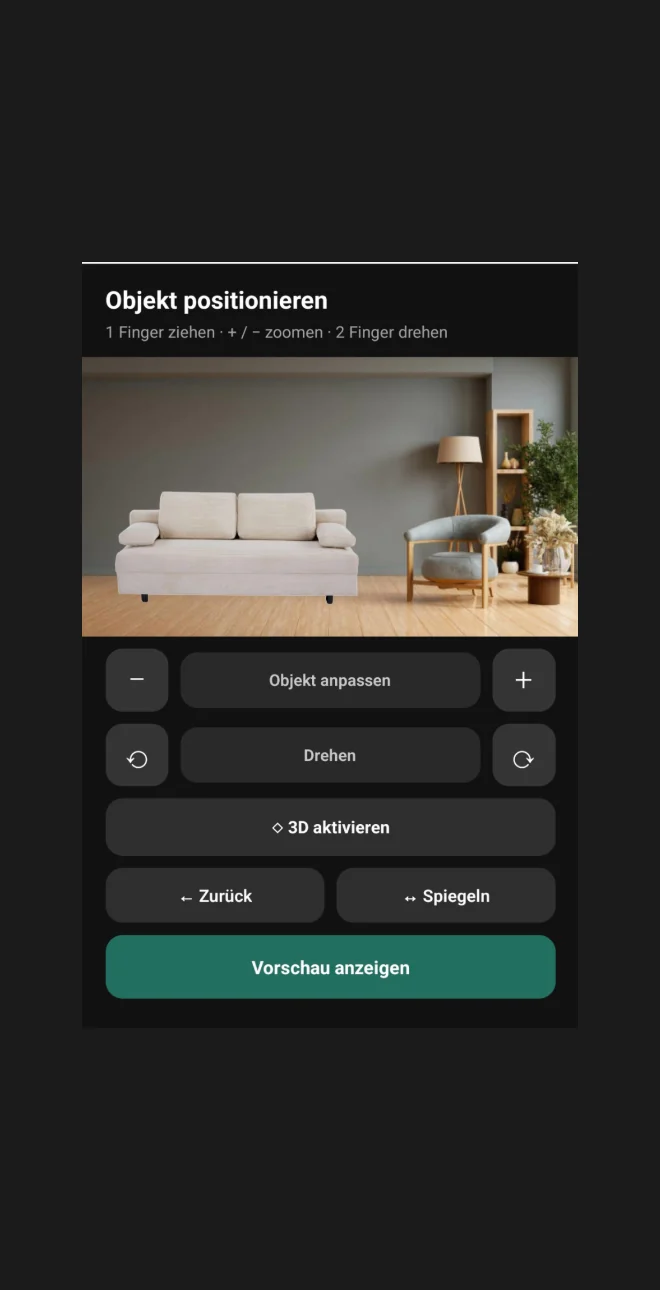
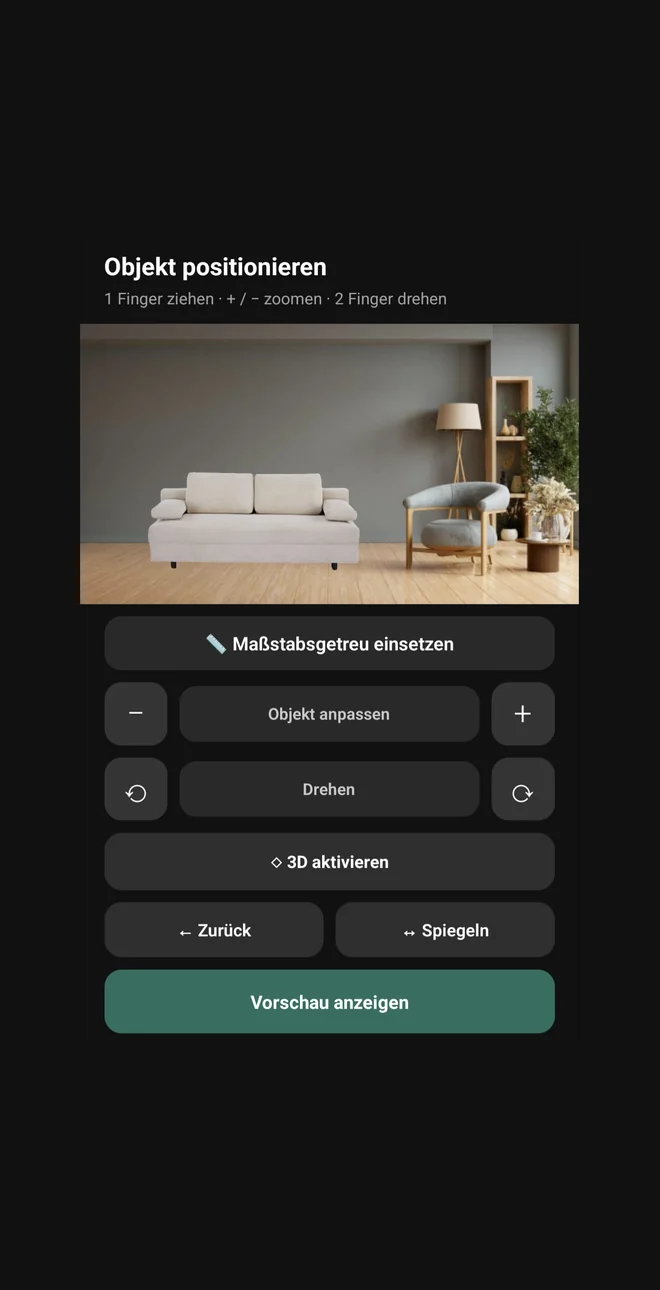
Schritt 04: Massband im Bild und im Text, beide Sprachen

Changed region(s): [[0.1212, 0.186, 0.8788, 0.8062]]

diff --git a/index.html b/index.html
@@ -155,12 +155,14 @@ img{max-width:100%;height:auto;display:block}
   display:inline-block;margin-bottom:18px;background:var(--green-wash);padding:6px 11px;border-radius:999px}
 .tile h3{margin-bottom:9px}
 .tile p{color:var(--muted);font-size:15.5px;margin:0}
-.tile-wide{grid-column:1/3;display:flex;gap:26px;align-items:center;background:var(--green-dark);border-color:var(--green-dark)}
-.tile-wide .tx{flex:1;min-width:0}
-.tile-wide h3{color:var(--creme)}
-.tile-wide p{color:rgba(247,244,239,.75)}
-.tile-wide .n{background:rgba(247,244,239,.15);color:rgba(247,244,239,.85)}
-.tile-wide img{width:168px;height:168px;object-fit:cover;border-radius:16px;flex:none;border:2px solid rgba(247,244,239,.25)}
+.tile-hero{grid-column:span 2;background:var(--green-dark);border-color:var(--green-dark);
+  display:flex;flex-direction:column;justify-content:center}
+.tile-hero h3{color:var(--creme)}
+.tile-hero p{color:rgba(247,244,239,.78);font-size:16.5px;max-width:46em}
+.tile-hero .n{background:rgba(247,244,239,.15);color:rgba(247,244,239,.85)}
+.tile-photo{grid-column:span 2;display:flex;gap:26px;align-items:center}
+.tile-photo .tx{flex:1;min-width:0}
+.tile-photo img{width:168px;height:168px;object-fit:cover;border-radius:16px;flex:none;border:1px solid var(--line)}
 .tile-search{grid-column:1/-1;display:flex;gap:26px;align-items:center;background:var(--green);border-color:var(--green)}
 .tile-search .tx{flex:1;min-width:0}
 .tile-search h3{color:var(--creme)}
@@ -173,8 +175,9 @@ img{max-width:100%;height:auto;display:block}
 .promise-foot{margin-top:14px;font-size:15px;color:var(--muted);max-width:52em}
 @media (max-width:760px){
   .feat-grid{grid-template-columns:1fr 1fr}
-  .tile-wide,.tile-search{grid-column:1/-1;flex-direction:column;align-items:stretch}
-  .tile-wide img,.tile-search img{width:100%;height:150px}
+  .tile-hero,.tile-key,.tile-photo,.tile-search{grid-column:1/-1}
+  .tile-photo,.tile-search{flex-direction:column;align-items:stretch}
+  .tile-photo img,.tile-search img{width:100%;height:150px}
 }
 
 
@@ -296,7 +299,7 @@ footer{padding:34px 0 52px;background:var(--green-dark);border-top:1px solid rgb
           <span class="line"><span class="line-inner" data-i18n="hero_l1">Geh auf</span></span>
           <span class="line"><span class="line-inner" data-i18n="hero_l2"><em>Möbel-Safari.</em></span></span>
         </h1>
-        <p class="lead" data-i18n="hero_lead">Fotografiere deinen Raum und setze Möbel direkt hinein. Du siehst sofort, ob das Sofa, der Schrank oder die Lampe wirklich passt — in Größe, Farbe und Stil.</p>
+        <p class="lead" data-i18n="hero_lead">Fotografiere deinen Raum und setze Möbel direkt hinein. Du siehst sofort, ob das Sofa, der Schrank oder die Lampe wirklich passt — in Größe, Farbe und Stil. Oder lass die KI den ganzen Raum in deinem Stil einrichten.</p>
       </div>
     </div>
 
@@ -336,7 +339,21 @@ footer{padding:34px 0 52px;background:var(--green-dark);border-top:1px solid rgb
     <h2 class="reveal" data-i18n="feat_h2">Was die App kann</h2>
     <div class="feat-grid reveal">
 
-      <div class="tile tile-wide">
+      <div class="tile tile-hero">
+        <div class="tx">
+          <span class="n" data-i18n="tsg_n">Stil-Generator</span>
+          <h3 data-i18n="tsg_h">Ganzer Raum auf Knopfdruck</h3>
+          <p data-i18n="tsg_p">Stil wählen, und die KI richtet den fotografierten Raum komplett ein — sechs Stile, vier Raumtypen. Unter jedem Entwurf stehen echte, kaufbare Möbel mit Preis und Shop-Link, farblich zum Entwurf passend ausgewählt.</p>
+        </div>
+      </div>
+
+      <div class="tile tile-key">
+        <span class="n" data-i18n="tms_n">Maßstab</span>
+        <h3 data-i18n="tms_h">Zentimetergenau statt geschätzt</h3>
+        <p data-i18n="tms_p">Eine Messlinie über etwas Bekanntes ziehen — Fenster, Tür — und die App rechnet Pixel pro Zentimeter. Das Möbel steht danach in genau der Größe im Bild, in der es geliefert wird. Zwanzig Zentimeter entscheiden, ob man noch zum Fenster kommt.</p>
+      </div>
+
+      <div class="tile tile-photo">
         <div class="tx">
           <span class="n" data-i18n="t1n">Freistellen</span>
           <h3 data-i18n="t1h">Automatisch sauber</h3>
@@ -467,16 +484,16 @@ var CONFIG = {
   mail:         "kontakt@sofari.app",
   steps: [
     {img:"shots/01.webp", en:"shots/en-01.webp", h:"Raum aufnehmen",        p:"Fotografiere dein Zimmer oder wähle ein Bild aus der Galerie."},
-    {img:"shots/02.webp", en:"shots/en-02.webp", h:"Möbel aussuchen",       p:"Aus dem Katalog vieler Shops, per eigenem Foto oder aus der Galerie."},
+    {img:"shots/02.webp", en:"shots/en-02.webp", h:"Raum und Möbel wählen",  p:"Wohn-, Schlaf-, Ess- oder Arbeitszimmer angeben — dann aus dem Katalog, per eigenem Foto oder aus der Galerie."},
     {img:"shots/03.webp", en:"shots/en-03.webp", h:"Automatisch freistellen",p:"Sofari löst das Möbelstück sauber vom Hintergrund — ohne Handarbeit."},
-    {img:"shots/04.webp", en:"shots/en-04.webp", h:"Platzieren und drehen", p:"Ziehen, zoomen, drehen, spiegeln — ausgewählte Möbel sogar in 3D."},
+    {img:"shots/04.webp", en:"shots/en-04.webp", h:"Platzieren und einmessen",p:"Ziehen, zoomen, drehen, spiegeln — und per Messlinie auf die echte Größe bringen. Ausgewählte Möbel sogar in 3D."},
     {img:"shots/05.webp", en:"shots/en-05.webp", h:"Gefunden.",             p:"Das Stück steht maßstabsgetreu in deinem Raum. Speichern, teilen, kaufen."}
   ],
   steps_en: [
     {h:"Capture the room",        p:"Photograph your room or pick an image from your gallery."},
-    {h:"Track down a piece",      p:"From many shops' catalogues, your own photo or your gallery."},
+    {h:"Room and piece",          p:"Say which room it is — living, bed, dining or home office — then pick from the catalogue, your own photo or your gallery."},
     {h:"Cut it out automatically",p:"Sofari lifts the piece off its background — no manual work."},
-    {h:"Place it and turn it",    p:"Drag, zoom, rotate, mirror — selected furniture even in 3D."},
+    {h:"Place it and measure it", p:"Drag, zoom, rotate, mirror — and set the real size with a measuring line. Selected pieces even in 3D."},
     {h:"Found it.",               p:"The piece stands true to scale in your room. Save it, share it, buy it."}
   ]
 };
@@ -495,10 +512,14 @@ var I18N={
     _title:"Sofari — Go on a furniture safari",
     nav_demo:"Open demo", nav_store:"Play Store",
     hero_l1:"Go on a", hero_l2:"<em>furniture safari.</em>",
-    hero_lead:"Photograph your room and drop furniture straight into it. See instantly whether the sofa, the wardrobe or the lamp really fits — in size, colour and style.",
+    hero_lead:"Photograph your room and drop furniture straight into it. See instantly whether the sofa, the wardrobe or the lamp really fits — in size, colour and style. Or let the AI furnish the whole room in your style.",
     cta_store:"View on Google Play", cta_demo:"Try it in your browser",
     scrollhint:"Scroll to search", steps_h2:"From photo to finished room",
     feat_eye:"Features", feat_h2:"What the app can do",
+    tsg_n:"Style generator", tsg_h:"A whole room, in one tap",
+    tsg_p:"Pick a style and the AI furnishes your photographed room — six styles, four room types. Underneath each design: real, purchasable furniture with price and shop link, matched to the design's colours.",
+    tms_n:"Scale", tms_h:"Real size, not guesswork",
+    tms_p:"Drag a measuring line across something you know — a window, a door — and the app works out pixels per centimetre. The piece then sits in the photo at exactly the size it will arrive in. Twenty centimetres decide whether you can still walk to the window.",
     t1n:"Cut-out",t1h:"Clean automatically",t1p:"Sofari lifts the piece off its background by itself — no manual retouching.",
     t2n:"Live AR",t2h:"True to scale in your room",t2p:"Place selected pieces in real size through your camera.",
     t3n:"3D",t3h:"From every angle",t3p:"Rotate selected furniture and view it from any side.",
